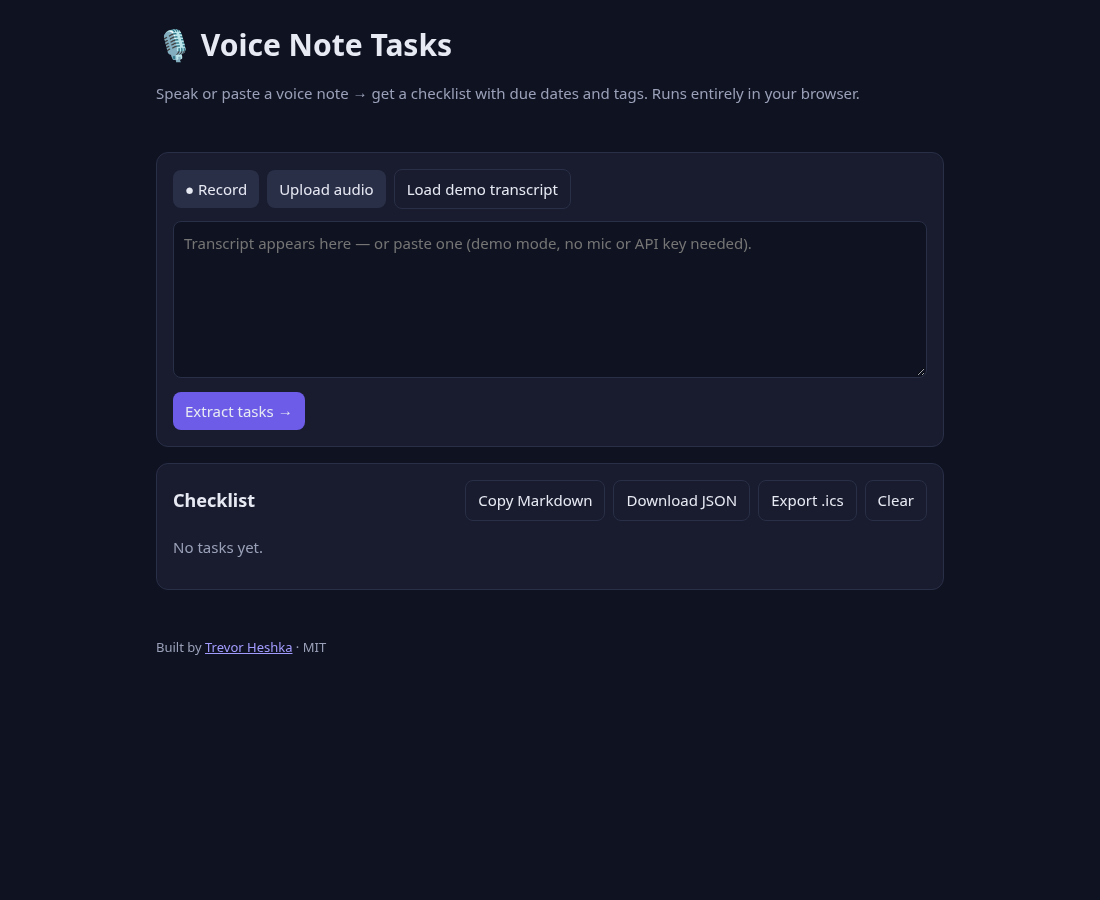
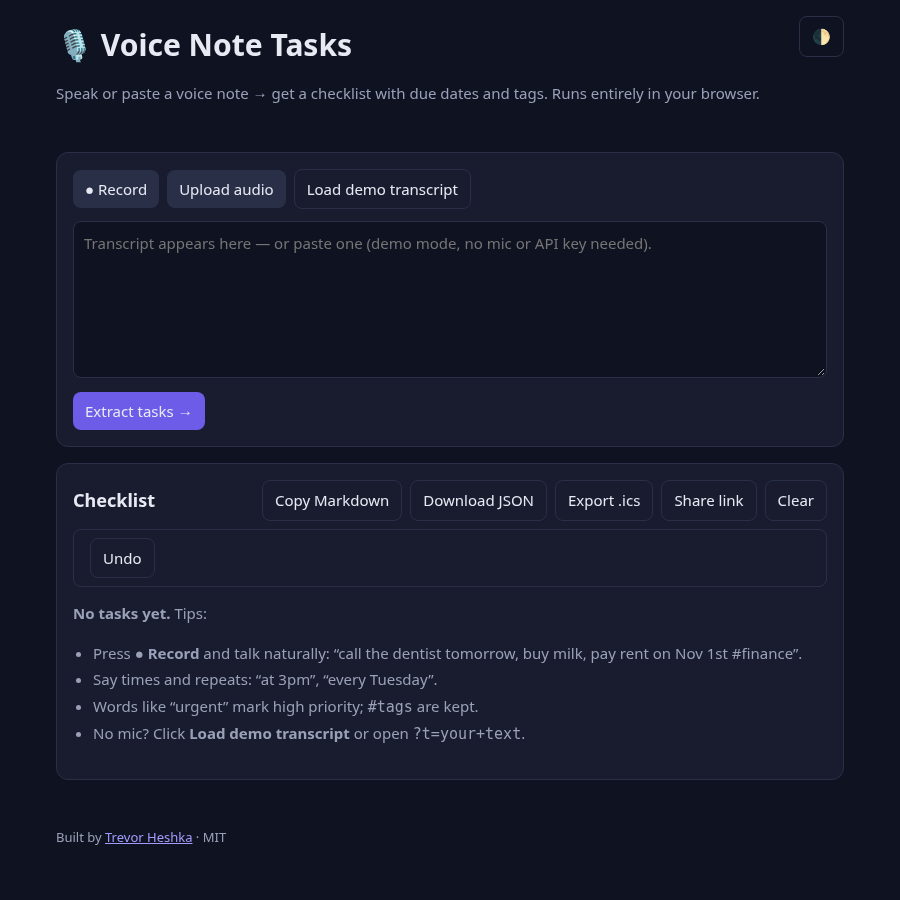
feat: share links, a11y, Playwright, theme polish [skip ci]

diff --git a/app.js b/app.js
@@ -4,24 +4,70 @@ let tasks = JSON.parse(localStorage.getItem('vnt-tasks') || '[]');
 const save = () => { localStorage.setItem('vnt-tasks', JSON.stringify(tasks)); render(); };
 const status = s => $('status').textContent = s;
 
+let lastDeleted = null, undoTimer = null;
+function removeTask(t) {
+  const idx = tasks.indexOf(t); if (idx < 0) return;
+  tasks.splice(idx, 1); lastDeleted = { t, idx }; save();
+  $('undomsg').textContent = `Deleted “${t.title}”.`; $('undo').hidden = false;
+  clearTimeout(undoTimer); undoTimer = setTimeout(() => { $('undo').hidden = true; lastDeleted = null; }, 8000);
+  const items = $('tasks').querySelectorAll('li.task'); (items[Math.min(idx, items.length - 1)] || $('transcript')).focus();
+}
+function undoDelete() {
+  if (!lastDeleted) return; tasks.splice(lastDeleted.idx, 0, lastDeleted.t); const { idx } = lastDeleted;
+  lastDeleted = null; $('undo').hidden = true; save(); status('Task restored.');
+  const li = $('tasks').querySelectorAll('li.task')[idx]; li && li.focus();
+}
+
 function render() {
   $('tasks').innerHTML = ''; $('empty').hidden = tasks.length > 0;
-  tasks.forEach(t => {
-    const li = document.createElement('li'); if (t.done) li.className = 'done';
-    li.innerHTML = `<input type="checkbox" ${t.done ? 'checked' : ''}><span class="t" contenteditable></span>
+  tasks.forEach((t, i) => {
+    const li = document.createElement('li'); li.className = 'task' + (t.done ? ' done' : ''); li.tabIndex = -1;
+    li.innerHTML = `<input type="checkbox" ${t.done ? 'checked' : ''}><span class="t" contenteditable role="textbox" aria-label="Task title"></span>
       ${t.priority === 'high' ? '<span class="chip high">high</span>' : ''}
       ${t.time ? `<span class="chip time">🕒 ${t.time}</span>` : ''}
       ${t.recurrence ? `<span class="chip rec" title="Repeats weekly">↻ ${(t.recurrence.byday || []).join('/') || 'weekly'}</span>` : ''}
       ${t.tags.map(g => `<span class="chip">#${g}</span>`).join('')}
-      <input type="date" value="${t.due || ''}"><button class="ghost" title="Delete">✕</button>`;
-    li.querySelector('.t').textContent = t.title;
-    li.querySelector('.t').onblur = e => { t.title = e.target.textContent.trim(); save(); };
-    li.querySelector('[type=checkbox]').onchange = e => { t.done = e.target.checked; save(); };
+      <input type="date" value="${t.due || ''}"><button class="ghost del" title="Delete">✕</button>`;
+    const title = li.querySelector('.t'); title.textContent = t.title;
+    li.querySelector('[type=checkbox]').setAttribute('aria-label', `Done: ${t.title}`);
+    li.querySelector('[type=date]').setAttribute('aria-label', `Due date for ${t.title}`);
+    li.querySelector('.del').setAttribute('aria-label', `Delete ${t.title}`);
+    title.onblur = e => { const v = e.target.textContent.trim(); if (v && v !== t.title) { t.title = v; save(); } else e.target.textContent = t.title; };
+    title.onkeydown = e => {
+      if (e.key === 'Enter') { e.preventDefault(); e.target.blur(); li.focus(); }
+      if (e.key === 'Escape') { e.target.textContent = t.title; e.target.blur(); li.focus(); }
+      e.stopPropagation();
+    };
+    li.querySelector('[type=checkbox]').onchange = e => { t.done = e.target.checked; save(); focusTask(i); status(`${t.title}: ${t.done ? 'done' : 'not done'}.`); };
     li.querySelector('[type=date]').onchange = e => { t.due = e.target.value || null; save(); };
-    li.querySelector('button').onclick = () => { tasks = tasks.filter(x => x !== t); save(); };
+    li.querySelector('.del').onclick = () => removeTask(t);
+    li.onkeydown = e => {
+      if (e.target !== li) return;
+      const items = [...$('tasks').querySelectorAll('li.task')];
+      if (e.key === 'ArrowDown' || e.key === 'j') { e.preventDefault(); (items[i + 1] || li).focus(); }
+      else if (e.key === 'ArrowUp' || e.key === 'k') { e.preventDefault(); (items[i - 1] || li).focus(); }
+      else if (e.key === 'Home') { e.preventDefault(); items[0].focus(); }
+      else if (e.key === 'End') { e.preventDefault(); items[items.length - 1].focus(); }
+      else if (e.key === ' ' || e.key === 'x') { e.preventDefault(); t.done = !t.done; save(); focusTask(i); status(`${t.title}: ${t.done ? 'done' : 'not done'}.`); }
+      else if (e.key === 'Enter' || e.key === 'F2') { e.preventDefault(); title.focus(); }
+      else if (e.key === 'Delete' || e.key === 'Backspace') { e.preventDefault(); removeTask(t); }
+    };
     $('tasks').appendChild(li);
   });
 }
+const focusTask = i => { const li = $('tasks').querySelectorAll('li.task')[i]; li && li.focus(); };
+$('undobtn').onclick = undoDelete;
+document.addEventListener('keydown', e => {
+  if ((e.ctrlKey || e.metaKey) && e.key === 'z' && lastDeleted && !e.target.closest('textarea,[contenteditable]')) { e.preventDefault(); undoDelete(); }
+});
+
+// Theme: follows the OS unless toggled; choice persisted.
+const applyTheme = th => { if (th) document.documentElement.dataset.theme = th; else delete document.documentElement.dataset.theme; };
+applyTheme(localStorage.getItem('vnt-theme'));
+$('theme').onclick = () => {
+  const cur = document.documentElement.dataset.theme || (matchMedia('(prefers-color-scheme: light)').matches ? 'light' : 'dark');
+  const next = cur === 'dark' ? 'light' : 'dark'; applyTheme(next); localStorage.setItem('vnt-theme', next); status(`${next[0].toUpperCase() + next.slice(1)} mode.`);
+};
 
 // Browser speech recognition (Chrome/Edge/Safari). Falls back to paste/demo mode.
 const SR = window.SpeechRecognition || window.webkitSpeechRecognition;
@@ -33,7 +79,7 @@ $('rec').onclick = async () => {
   const base = $('transcript').value ? $('transcript').value + ' ' : '';
   rec.onresult = e => { $('transcript').value = base + [...e.results].map(r => r[0].transcript).join(' '); };
   rec.onerror = e => status('Mic error: ' + e.error);
-  rec.onend = () => { rec = null; $('rec').classList.remove('on'); $('rec').textContent = '● Record'; status('Stopped.'); };
+  rec.onend = () => { rec = null; $('rec').classList.remove('on'); $('rec').setAttribute('aria-pressed','false'); $('rec').textContent = '● Record'; status('Stopped.'); };
   try { // also keep the audio so it can be replayed
     const stream = await navigator.mediaDevices.getUserMedia({ audio: true });
     recorder = new MediaRecorder(stream); chunks = [];
@@ -41,7 +87,7 @@ $('rec').onclick = async () => {
     recorder.onstop = () => { stream.getTracks().forEach(t => t.stop()); $('player').src = URL.createObjectURL(new Blob(chunks)); $('player').hidden = false; };
     recorder.start();
   } catch (_) {}
-  rec.start(); $('rec').classList.add('on'); $('rec').textContent = '■ Stop'; status('Listening…');
+  rec.start(); $('rec').classList.add('on'); $('rec').setAttribute('aria-pressed','true'); $('rec').textContent = '■ Stop'; status('Listening…');
 };
 
 // Uploaded audio: play it; optionally transcribe offline with Whisper (lazy-loaded, see whisper.js).
@@ -55,7 +101,7 @@ $('whisper').onclick = async () => {
   if (!upload) return;
   const btn = $('whisper'), box = $('wbox'), prog = $('wprog'), txt = $('wtext');
   btn.disabled = true; box.hidden = false; prog.removeAttribute('value');
-  const onProgress = p => { txt.textContent = p.text; if (p.pct != null) prog.value = p.pct; else prog.removeAttribute('value'); };
+  const onProgress = p => { txt.textContent = p.text; if (p.stage !== "model") status(p.text); if (p.pct != null) prog.value = p.pct; else prog.removeAttribute('value'); };
   try {
     const mod = await import('./whisper.js');
     const text = await mod.transcribe(upload, onProgress);
@@ -74,7 +120,16 @@ $('parse').onclick = () => {
   tasks = tasks.concat(found.map((t, i) => ({ ...t, id: start + i + 1 }))); save();
   status(`${found.length} task(s) extracted.`);
 };
-$('clear').onclick = () => { tasks = []; save(); };
+$('clear').onclick = () => { if (tasks.length && !confirm(`Clear all ${tasks.length} task(s)?`)) return; tasks = []; save(); status('Checklist cleared.'); };
+// Share: link that pre-fills the transcript via ?t= (stays client-side; nothing is uploaded).
+const shareURL = text => { const u = new URL(location.href); u.search = ''; u.hash = ''; u.searchParams.set('t', text); return u.toString(); };
+$('share').onclick = () => {
+  const text = $('transcript').value.trim(); if (!text) { status('Nothing to share — add a transcript first.'); return; }
+  const url = shareURL(text);
+  if (url.length > 8000) { status('Transcript too long to share as a link (~8 KB max).'); return; }
+  const done = () => status('Share link copied.');
+  (navigator.share && matchMedia('(pointer: coarse)').matches ? navigator.share({ title: 'Voice Note Tasks', url }) : navigator.clipboard.writeText(url)).then(done, () => { history.replaceState(null, '', url); status('Link is in the address bar — copy it from there.'); });
+};
 $('copy').onclick = () => {
   const md = tasks.map(t => `- [${t.done ? 'x' : ' '}] ${t.title}${t.due ? ` (due ${t.due}${t.time ? ' ' + t.time : ''})` : ''}${t.recurrence ? ' (weekly)' : ''}${t.tags.map(g => ' #' + g).join('')}`).join('\n');
   navigator.clipboard.writeText(md).then(() => status('Copied Markdown.'));
@@ -89,5 +144,7 @@ $('json').onclick = () => {
   const a = document.createElement('a'); a.href = URL.createObjectURL(new Blob([JSON.stringify(tasks, null, 2)], { type: 'application/json' }));
   a.download = 'tasks.json'; a.click();
 };
-if (new URLSearchParams(location.search).has('demo')) { $('demo').click(); if (!tasks.length) $('parse').click(); }
+const qs = new URLSearchParams(location.search);
+if (qs.get('t')) { $('transcript').value = qs.get('t').slice(0, 5000); status('Transcript loaded from link — review it, then Extract tasks.'); if (qs.has('auto')) $('parse').click(); }
+else if (qs.has('demo')) { $('demo').click(); if (!tasks.length) $('parse').click(); }
 render();

diff --git a/index.html b/index.html
@@ -1,23 +1,30 @@
 <!doctype html><html lang="en"><head><meta charset="utf-8"><meta name="viewport" content="width=device-width,initial-scale=1">
 <title>Voice Note Tasks</title><link rel="stylesheet" href="style.css"></head><body>
-<header><h1>🎙 Voice Note Tasks</h1><p>Speak or paste a voice note → get a checklist with due dates and tags. Runs entirely in your browser.</p></header>
+<header><button id="theme" class="ghost" aria-label="Toggle dark mode" style="float:right">🌓</button><h1>🎙 Voice Note Tasks</h1><p>Speak or paste a voice note → get a checklist with due dates and tags. Runs entirely in your browser.</p></header>
 <main>
 <section class="card">
   <div class="row">
-    <button id="rec">● Record</button>
+    <button id="rec" aria-pressed="false">● Record</button>
     <label class="btn">Upload audio<input id="file" type="file" accept="audio/*" hidden></label>
     <button id="whisper" class="ghost" hidden title="Optional: downloads ~40 MB model once, then runs offline in your browser">✨ Transcribe with Whisper</button>
     <button id="demo" class="ghost">Load demo transcript</button>
-    <span id="status"></span>
+    <span id="status" role="status" aria-live="polite" aria-atomic="true"></span>
   </div>
   <audio id="player" controls hidden></audio>
-  <div id="wbox" hidden><progress id="wprog" max="100"></progress> <span id="wtext" class="muted"></span></div>
-  <textarea id="transcript" rows="6" placeholder="Transcript appears here — or paste one (demo mode, no mic or API key needed)."></textarea>
+  <div id="wbox" hidden aria-live="polite"><progress id="wprog" max="100"></progress> <span id="wtext" class="muted"></span></div>
+  <label for="transcript" class="sr-only">Transcript</label><textarea id="transcript" rows="6" placeholder="Transcript appears here — or paste one (demo mode, no mic or API key needed)."></textarea>
   <button id="parse" class="primary">Extract tasks →</button>
 </section>
 <section class="card"><div class="row"><h2>Checklist</h2><span class="spacer"></span>
-  <button id="copy" class="ghost">Copy Markdown</button><button id="json" class="ghost">Download JSON</button><button id="ics" class="ghost" title="Tasks with a due date become calendar events">Export .ics</button><button id="clear" class="ghost">Clear</button></div>
-  <ul id="tasks"></ul><p id="empty" class="muted">No tasks yet.</p></section>
+  <button id="copy" class="ghost">Copy Markdown</button><button id="json" class="ghost">Download JSON</button><button id="ics" class="ghost" title="Tasks with a due date become calendar events">Export .ics</button><button id="share" class="ghost" title="Copy a link that pre-fills this transcript">Share link</button><button id="clear" class="ghost">Clear</button></div>
+  <div id="undo" class="undo" hidden role="alert"><span id="undomsg"></span> <button id="undobtn" class="ghost">Undo</button></div>
+  <ul id="tasks" aria-label="Tasks" aria-describedby="kbdhelp"></ul>
+  <p id="kbdhelp" class="sr-only">Use Up and Down arrows to move between tasks, Space to toggle done, Enter to edit the title, Delete to remove.</p>
+  <div id="empty" class="muted empty"><p><strong>No tasks yet.</strong> Tips:</p><ul>
+    <li>Press <b>● Record</b> and talk naturally: “call the dentist tomorrow, buy milk, pay rent on Nov 1st #finance”.</li>
+    <li>Say times and repeats: “at 3pm”, “every Tuesday”.</li>
+    <li>Words like “urgent” mark high priority; <code>#tags</code> are kept.</li>
+    <li>No mic? Click <b>Load demo transcript</b> or open <code>?t=your+text</code>.</li></ul></div></section>
 </main>
 <footer>Built by <a href="https://trevorheshka.com">Trevor Heshka</a> · MIT</footer>
 <script src="parser.js"></script><script src="ics.js"></script><script src="app.js"></script></body></html>

diff --git a/e2e/smoke.spec.js b/e2e/smoke.spec.js
@@ -1,0 +1,61 @@
+const { test, expect } = require('@playwright/test');
+test.beforeEach(async ({ page }) => { await page.goto('/'); await page.evaluate(() => localStorage.clear()); await page.reload(); });
+
+test('empty state shows tips', async ({ page }) => {
+  await expect(page.locator('#empty')).toBeVisible();
+  await expect(page.locator('#empty')).toContainText('Load demo transcript');
+});
+
+test('demo mode extracts tasks', async ({ page }) => {
+  await page.click('#demo'); await page.click('#parse');
+  await expect(page.locator('#tasks li.task')).toHaveCount(9);
+  await expect(page.locator('#status')).toHaveText(/9 task\(s\) extracted/);
+  await expect(page.locator('#status')).toHaveAttribute('aria-live', 'polite');
+  await expect(page.locator('#empty')).toBeHidden();
+});
+
+test('?demo auto-loads', async ({ page }) => {
+  await page.goto('/?demo'); await expect(page.locator('#tasks li.task')).not.toHaveCount(0);
+});
+
+test('?t= prefills transcript and share builds link', async ({ page, context }) => {
+  await context.grantPermissions(['clipboard-read', 'clipboard-write']);
+  await page.goto('/?t=' + encodeURIComponent('Buy milk tomorrow. Call Sam'));
+  await expect(page.locator('#transcript')).toHaveValue('Buy milk tomorrow. Call Sam');
+  await page.click('#share');
+  await expect(page.locator('#status')).toHaveText(/Share link copied|address bar/);
+  await page.goto('/?auto&t=Buy+milk'); await expect(page.locator('#tasks li.task')).toHaveCount(1);
+});
+
+test('checklist edits: toggle, rename, date, delete + undo, persist', async ({ page }) => {
+  await page.fill('#transcript', 'Buy milk. Call the dentist'); await page.click('#parse');
+  const first = page.locator('#tasks li.task').first();
+  await first.locator('[type=checkbox]').check(); await expect(first).toHaveClass(/done/);
+  const title = page.locator('#tasks li.task').nth(1).locator('.t');
+  await title.click(); await title.press('Control+a'); await title.pressSequentially('Call the vet'); await title.press('Enter');
+  await expect(page.locator('#tasks li.task').nth(1).locator('.t')).toHaveText('Call the vet');
+  await page.locator('#tasks li.task').nth(1).locator('[type=date]').fill('2026-12-01');
+  await page.locator('#tasks li.task').first().locator('.del').click();
+  await expect(page.locator('#tasks li.task')).toHaveCount(1);
+  await page.click('#undobtn'); await expect(page.locator('#tasks li.task')).toHaveCount(2);
+  await page.reload();
+  await expect(page.locator('#tasks li.task').nth(1).locator('.t')).toHaveText('Call the vet');
+  await expect(page.locator('#tasks li.task').nth(1).locator('[type=date]')).toHaveValue('2026-12-01');
+  await expect(page.locator('#tasks li.task').first()).toHaveClass(/done/);
+});
+
+test('keyboard checklist navigation', async ({ page }) => {
+  await page.fill('#transcript', 'Buy milk. Call the dentist. Pay rent'); await page.click('#parse');
+  await page.locator('#tasks li.task').first().focus();
+  await page.keyboard.press('ArrowDown'); await page.keyboard.press('Space');
+  await expect(page.locator('#tasks li.task').nth(1)).toHaveClass(/done/);
+  await expect(page.locator('#tasks li.task').nth(1)).toBeFocused();
+  await page.keyboard.press('Delete'); await expect(page.locator('#tasks li.task')).toHaveCount(2);
+  await page.keyboard.press('Control+z'); await expect(page.locator('#tasks li.task')).toHaveCount(3);
+});
+
+test('dark mode toggle persists', async ({ page }) => {
+  await page.emulateMedia({ colorScheme: 'dark' }); await page.click('#theme');
+  await expect(page.locator('html')).toHaveAttribute('data-theme', 'light');
+  await page.reload(); await expect(page.locator('html')).toHaveAttribute('data-theme', 'light');
+});

diff --git a/style.css b/style.css
@@ -1,13 +1,21 @@
-*{box-sizing:border-box}body{margin:0;font:15px/1.5 system-ui,sans-serif;background:#0f1220;color:#e7e9f3}
-header,main,footer{max-width:820px;margin:0 auto;padding:16px}h1{margin:.2em 0}header p,.muted{color:#9aa0b8}
-.card{background:#181c2e;border:1px solid #2a2f48;border-radius:12px;padding:16px;margin-bottom:16px}
+*{box-sizing:border-box}:root{--bg:#0f1220;--fg:#e7e9f3;--card:#181c2e;--line:#2a2f48;--mut:#9aa0b8;color-scheme:dark}
+:root[data-theme=light]{--bg:#f6f7fb;--fg:#1b1e2b;--card:#fff;--line:#d6d9e6;--mut:#5b6078;color-scheme:light}
+@media (prefers-color-scheme:light){:root:not([data-theme=dark]){--bg:#f6f7fb;--fg:#1b1e2b;--card:#fff;--line:#d6d9e6;--mut:#5b6078;color-scheme:light}}
+body{margin:0;font:15px/1.5 system-ui,sans-serif;background:var(--bg);color:var(--fg)}
+header,main,footer{max-width:820px;margin:0 auto;padding:16px}h1{margin:.2em 0}header p,.muted{color:var(--mut)}
+.card{background:var(--card);border:1px solid var(--line);border-radius:12px;padding:16px;margin-bottom:16px}
 .row{display:flex;gap:8px;align-items:center;flex-wrap:wrap}.spacer{flex:1}h2{margin:0;font-size:18px}
 button,.btn{background:#2a2f48;color:#e7e9f3;border:0;border-radius:8px;padding:8px 12px;cursor:pointer;font:inherit}
-.primary{background:#6c5ce7;margin-top:8px}.ghost{background:transparent;border:1px solid #2a2f48}#rec.on{background:#e74c3c}
-textarea{width:100%;margin-top:12px;background:#0f1220;color:inherit;border:1px solid #2a2f48;border-radius:8px;padding:10px;font:inherit}
-audio{width:100%;margin-top:10px}ul{list-style:none;padding:0}li{display:flex;gap:10px;align-items:center;padding:10px;border-bottom:1px solid #2a2f48}
-li.done .t{text-decoration:line-through;color:#9aa0b8}.t{flex:1}.chip{font-size:12px;padding:2px 8px;border-radius:99px;background:#2a2f48}
-.due{background:#1e5f4a}.high{background:#7a2530}input[type=date]{background:#0f1220;color:inherit;border:1px solid #2a2f48;border-radius:6px}
-#status{color:#9aa0b8;font-size:13px}footer{color:#9aa0b8;font-size:13px}a{color:#a29bfe}
+.primary{background:#6c5ce7;margin-top:8px}.ghost{background:transparent;border:1px solid var(--line)}#rec.on{background:#e74c3c}
+textarea{width:100%;margin-top:12px;background:var(--bg);color:inherit;border:1px solid var(--line);border-radius:8px;padding:10px;font:inherit}
+audio{width:100%;margin-top:10px}ul{list-style:none;padding:0}li{display:flex;gap:10px;align-items:center;padding:10px;border-bottom:1px solid var(--line)}
+li.done .t{text-decoration:line-through;color:var(--mut)}.t{flex:1}.chip{font-size:12px;padding:2px 8px;border-radius:99px;background:#2a2f48}
+.due{background:#1e5f4a}.high{background:#7a2530}input[type=date]{background:var(--bg);color:inherit;border:1px solid var(--line);border-radius:6px}
+#status{color:var(--mut);font-size:13px}footer{color:var(--mut);font-size:13px}a{color:#a29bfe}
 .chip.time{background:#1e3a5f;color:#9cc7ff}.chip.rec{background:#17402b;color:#8ee6b0}
 #wbox:not([hidden]){display:flex;align-items:center;gap:.5rem;margin:.5rem 0}#wbox progress{width:12rem}
+button,.btn{color:#e7e9f3}.ghost{color:var(--fg)}
+.sr-only{position:absolute;width:1px;height:1px;overflow:hidden;clip:rect(0 0 0 0);white-space:nowrap}
+:focus-visible{outline:2px solid #a29bfe;outline-offset:2px}li.task:focus-within,li.task:focus{background:rgba(108,92,231,.12)}
+.empty ul{list-style:disc;padding-left:20px}.empty li{display:list-item;border:0;padding:2px 0}
+.undo{display:flex;align-items:center;gap:8px;padding:8px;border:1px solid var(--line);border-radius:8px;margin-top:8px}

diff --git a/whisper.js b/whisper.js
@@ -13,8 +13,10 @@ async function getPipe(onProgress) {
       onProgress({ stage: 'lib', text: 'Loading transformers.js…' });
       const { pipeline } = await import(LIB);
       const files = {};
+      const device = (typeof navigator !== 'undefined' && navigator.gpu && await navigator.gpu.requestAdapter().catch(() => null)) ? 'webgpu' : 'wasm';
+      onProgress({ stage: 'lib', text: `Preparing Whisper (${device})…` });
       return pipeline('automatic-speech-recognition', MODEL, {
-        dtype: 'q8',
+        dtype: device === 'webgpu' ? 'fp32' : 'q8', device,
         progress_callback: p => {
           if (p.status === 'progress' && p.total) {
             files[p.file] = [p.loaded, p.total];
@@ -29,14 +31,28 @@ async function getPipe(onProgress) {
 }
 
 // Decode any browser-supported audio file to 16 kHz mono Float32Array (what Whisper expects).
+// Decodes at the native rate (Safari ignores/rejects the sampleRate option), down-mixes all channels,
+// then resamples with OfflineAudioContext.
+export const MAX_BYTES = 100e6;
 async function decode(file) {
+  if (file.size > MAX_BYTES) throw new Error(`file is ${(file.size / 1e6).toFixed(0)} MB; max is ${MAX_BYTES / 1e6} MB`);
   const buf = await file.arrayBuffer();
-  const ctx = new (window.AudioContext || window.webkitAudioContext)({ sampleRate: 16000 });
-  try { const audio = await ctx.decodeAudioData(buf);
-    if (audio.numberOfChannels === 1) return audio.getChannelData(0);
-    const a = audio.getChannelData(0), b = audio.getChannelData(1), out = new Float32Array(a.length);
-    for (let i = 0; i < a.length; i++) out[i] = (a[i] + b[i]) / 2; return out;
-  } finally { ctx.close(); }
+  const AC = window.AudioContext || window.webkitAudioContext;
+  if (!AC) throw new Error('Web Audio not supported in this browser');
+  const ctx = new AC();
+  let audio;
+  try { audio = await new Promise((res, rej) => { const p = ctx.decodeAudioData(buf, res, rej); p && p.then && p.then(res, rej); }); }
+  catch (e) { throw new Error('could not decode audio (unsupported format?)'); }
+  finally { ctx.close && ctx.close(); }
+  if (!audio || !audio.length) throw new Error('audio file is empty');
+  const n = audio.numberOfChannels, mono = new Float32Array(audio.length);
+  for (let c = 0; c < n; c++) { const d = audio.getChannelData(c); for (let i = 0; i < d.length; i++) mono[i] += d[i] / n; }
+  if (audio.sampleRate === 16000) return mono;
+  const OAC = window.OfflineAudioContext || window.webkitOfflineAudioContext;
+  const len = Math.ceil(audio.length * 16000 / audio.sampleRate), off = new OAC(1, len, 16000);
+  const b = off.createBuffer(1, mono.length, audio.sampleRate); b.getChannelData(0).set(mono);
+  const src = off.createBufferSource(); src.buffer = b; src.connect(off.destination); src.start();
+  return (await off.startRendering()).getChannelData(0);
 }
 
 export async function transcribe(file, onProgress = () => {}) {
@@ -44,6 +60,7 @@ export async function transcribe(file, onProgress = () => {}) {
   onProgress({ stage: 'decode', text: 'Decoding audio…' });
   const audio = await decode(file);
   onProgress({ stage: 'run', text: `Transcribing ${(audio.length / 16000).toFixed(0)} s of audio…` });
+  if (audio.length < 1600) return '';
   const out = await asr(audio, { chunk_length_s: 30, stride_length_s: 5 });
   return (out.text || '').trim();
 }

diff --git a/playwright.config.js b/playwright.config.js
@@ -1,0 +1,4 @@
+module.exports = {
+  testDir: 'e2e', use: { baseURL: 'http://localhost:5173' },
+  webServer: { command: 'npx --yes serve -l 5173 .', port: 5173, reuseExistingServer: true },
+};

diff --git a/README.md b/README.md
@@ -9,6 +9,9 @@ Record (or paste) a voice note → transcript → structured checklist with **du
 - **Upload audio** for playback, then optionally **✨ Transcribe with Whisper** — fully in-browser speech-to-text (see below). Or dictate/paste its transcript.
 - **Demo mode** — paste any transcript (or click *Load demo transcript*, or open `/?demo`). Works with no mic and no keys.
 - Parser extracts tasks and detects due dates (`today`, `tomorrow`, `Friday`, `next Monday`, `next week`, `in 3 days`, `November 1st`), **times** (`at 3pm`, `at 3:30 pm`, `at 17:45`, `at noon`), **weekly recurrence** (`every Monday`, `every Tuesday and Friday`, `on Mondays`, `weekly`), and splits **multi-clause** sentences (`call mom at 3pm and email Bob tomorrow` → 2 tasks, while `buy milk and eggs` stays 1). Auto-tags (`work`, `errand`, `call`, `home`, `health`, `money`) plus `#hashtags`, and `urgent/asap` → high priority.
+- **Share / deep link** — *Share link* copies `/?t=<transcript>` which pre-fills the transcript for whoever opens it (add `&auto` to extract immediately). Text lives only in the URL; nothing is uploaded.
+- **Keyboard checklist** — focus a task, then ↑/↓ (or j/k), Home/End to move, Space/x to toggle, Enter/F2 to edit (Enter saves, Esc cancels), Delete to remove. Recording/Whisper/extract status is announced via an ARIA live region.
+- **Undo delete** (button or Ctrl/⌘+Z, 8 s), empty-state tips, and **light/dark mode** (follows the OS; 🌓 toggles and remembers).
 - Edit titles inline, change dates, check off, delete. Saved to `localStorage`. Export as Markdown, JSON, or **`.ics` calendar** (dated tasks → events; timed tasks get a 30-min slot, others are all-day; recurring tasks get `RRULE:FREQ=WEEKLY;BYDAY=…`; urgent → `PRIORITY:1`). Import into Google Calendar, Apple Calendar or Outlook.
 
 ## Prerequisites
@@ -24,7 +27,7 @@ Record (or paste) a voice note → transcript → structured checklist with **du
 | [`@huggingface/transformers`](https://github.com/huggingface/transformers.js) v3 (ES module) | ~1 MB JS + ONNX Runtime WASM | `cdn.jsdelivr.net` |
 | [`Xenova/whisper-tiny.en`](https://huggingface.co/Xenova/whisper-tiny.en) (q8 quantized) | ~40 MB, downloaded once then cached by the browser | `huggingface.co` |
 
-A progress bar shows the one-time download; after that transcription runs locally (no audio leaves your machine). If you're offline or the CDN is blocked, the app shows an error and paste/demo still work. English-only model; to change it edit `MODEL` in `whisper.js` (e.g. `Xenova/whisper-base`). `npm start` uses `npx serve` (fetched on demand); tests use only Node's built-in `assert`.
+Whisper uses WebGPU when available (falls back to WASM), resamples any decodable audio to 16 kHz mono (Safari-safe), and rejects files over 100 MB. A progress bar shows the one-time download; after that transcription runs locally (no audio leaves your machine). If you're offline or the CDN is blocked, the app shows an error and paste/demo still work. English-only model; to change it edit `MODEL` in `whisper.js` (e.g. `Xenova/whisper-base`). `npm start` uses `npx serve` (fetched on demand); unit tests use only Node's built-in `assert`; the optional smoke tests use `@playwright/test` (dev dependency).
 
 ## Run
 ```bash
@@ -33,6 +36,8 @@ cd voice-note-tasks
 npm start                 # → http://localhost:5173
 # or: python3 -m http.server 5173
 npm test                  # parser tests
+npm i && npx playwright install chromium
+npm run test:e2e          # Playwright smoke tests (demo mode, checklist edits, keyboard, ?t=, theme)
 ```
 Open http://localhost:5173/?demo to see it pre-filled.
 
@@ -44,11 +49,12 @@ Open http://localhost:5173/?demo to see it pre-filled.
 | `whisper.js` | Optional lazy-loaded Whisper transcription of uploaded files (ES module) |
 | `app.js` | UI, speech recognition, recording, storage, export |
 | `test.js` | Parser + `.ics` tests |
+| `e2e/smoke.spec.js` | Playwright browser smoke tests |
 
 ## Screenshots
-| Empty | Demo | Upload → Whisper |
-|---|---|---|
-| ![](docs/empty-state.png) | ![](docs/demo-checklist.png) | ![](docs/upload-whisper.png) |
+| Empty (tips) | Demo | Light mode | Upload → Whisper |
+|---|---|---|---|
+| ![](docs/empty-state.png) | ![](docs/demo-checklist.png) | ![](docs/light-mode.png) | ![](docs/upload-whisper.png) |
 
 Screenshots are real headless Chrome captures of this app.
 
